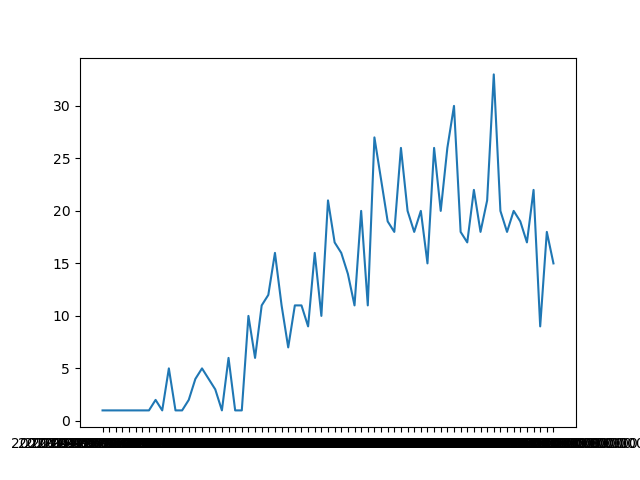
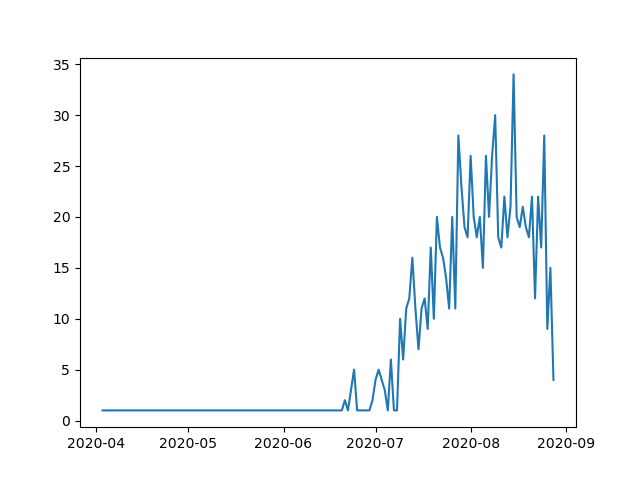
script model regresion

diff --git a/StructureInformation.py b/StructureInformation.py
@@ -2,7 +2,6 @@ import pandas as pd
 from sodapy import Socrata
 import numpy as np
 import matplotlib.pyplot as plt
-import seaborn as sns
 
 
 def get_information(url,limit):
@@ -11,12 +10,18 @@ def get_information(url,limit):
     data = pd.DataFrame.from_records(data)
     return data
 
+def castDate(data,value):
+    data[value] = data[value].str[:10]
+    data[value] = pd.to_datetime(data[value])
+    return data
+
+
 def filter_city_categorical_values(dataframe, filterCity):
     data_frame_Covid_19 = dataframe[dataframe.ciudad_de_ubicaci_n.isin(filterCity)]
     data_frame_Covid_19['edad'] = data_frame_Covid_19['edad'].astype(int)
 
     conditions = [
-        (data_frame_Covid_19['edad'] <= 20),
+       (data_frame_Covid_19['edad'] <= 20),
         (data_frame_Covid_19['edad'] > 20) & (data_frame_Covid_19['edad'] <= 40),
         (data_frame_Covid_19['edad'] > 40) & (data_frame_Covid_19['edad'] <= 60),
         (data_frame_Covid_19['edad'] > 60) & (data_frame_Covid_19['edad'] <= 80),
@@ -26,6 +31,13 @@ def filter_city_categorical_values(dataframe, filterCity):
     values = ['< 20 Años', '21-30 Años', '41-60 Años', '61-80 Años', '> 80 Años']
 
     data_frame_Covid_19['EdadCate'] = np.select(conditions, values)
+    data_frame_Covid_19 =castDate(data = data_frame_Covid_19,value = "fecha_de_notificaci_n")
+    data_frame_Covid_19 = castDate(data=data_frame_Covid_19, value="fecha_diagnostico")
+    data_frame_Covid_19 = castDate(data=data_frame_Covid_19, value="fecha_recuperado")
+    data_frame_Covid_19 = castDate(data=data_frame_Covid_19, value="fecha_reporte_web")
+    data_frame_Covid_19 = castDate(data=data_frame_Covid_19, value="fecha_de_muerte")
+
+
     return data_frame_Covid_19
 
 def structuredata(dataframe,variable):
@@ -51,9 +63,15 @@ Data_covid = filter_city_categorical_values(dataframe = Data_covid,
                                                             'Barranquilla',
                                                             'Cartagena de Indias'])
 
+
+
+
+
 Infectados_history = structuredata(dataframe = Data_covid, variable = "fecha_diagnostico")
 Recuperados_history = structuredata(dataframe = Data_covid, variable = "fecha_recuperado")
 Muertes_history = structuredata(dataframe = Data_covid, variable = "fecha_de_muerte")
+
+
 
 
 medellin = Muertes_history[Muertes_history["ciudad_de_ubicaci_n"]=="Medellín"]
@@ -63,31 +81,12 @@ plt.plot(medellin.fecha_de_muerte,medellin.id_de_caso)
 plt.show()
 plt.savefig('fig/plot1.png')
 
+
+
+
+
 from jinja2 import Template
 str = open('Template/index.html', 'r').read()
 template = Template(str)
 str = template.render(muertos= 2000)
 open('index.html', 'w').write(str);
-
-
-####################################################################### analisis de correlacion#######
-
-recuperadostime = Data_covid[Data_covid["fecha_diagnostico"].notnull()]
-recuperadostime = recuperadostime[recuperadostime["fecha_recuperado"].notnull()]
-recuperadostime['fecha_diagnostico'] = recuperadostime['fecha_diagnostico'].str[:10]
-recuperadostime['fecha_diagnostico'] =pd.to_datetime(recuperadostime['fecha_diagnostico'])
-recuperadostime['fecha_recuperado'] = recuperadostime['fecha_recuperado'].str[:10]
-recuperadostime['fecha_recuperado'] =pd.to_datetime(recuperadostime['fecha_recuperado'])
-
-a =((recuperadostime['fecha_recuperado'] - recuperadostime['fecha_diagnostico'])/ np.timedelta64(1, 'D')).astype(int)
-
-
-sns.distplot(a, hist=True, kde=True,
-             bins=int(180/5), color = 'darkblue',
-             hist_kws={'edgecolor':'black'},
-             kde_kws={'linewidth': 4})
-
-###################### modelo Regresion rezagos###############
-
-infectados = Infectados_history[[""]]
-Infectados_history.columns

diff --git a/ModelRegresion.py b/ModelRegresion.py
@@ -1,0 +1,62 @@
+import matplotlib.pyplot as plt
+import seaborn as sns
+from sklearn import datasets, linear_model, metrics
+from sklearn.model_selection import train_test_split
+import pandas as pd
+
+####################################################################### analisis de correlacion#######
+
+a =((Data_covid['fecha_recuperado'] - Data_covid['fecha_diagnostico'])/ np.timedelta64(1, 'D')).dropna().astype(int)
+
+
+sns.distplot(a, hist=True, kde=True,
+             bins=int(180/5), color = 'darkblue',
+             hist_kws={'edgecolor':'black'},
+             kde_kws={'linewidth': 4})
+
+###################### modelo Regresion rezagos###############
+
+
+def ModelData(DataX,DataY,ciudad,numberLag):
+
+    DataX_city = DataX[DataX["ciudad_de_ubicaci_n"] == ciudad]
+    DataY_city = DataY[DataY["ciudad_de_ubicaci_n"] == ciudad]
+
+    infectados = DataX_city[["fecha_diagnostico", "id_de_caso"]]
+    infectados.columns = ['Fecha', 'Numero_de_Infectados']
+    recuperado = DataY_city[["fecha_recuperado", "id_de_caso"]]
+    recuperado.columns = ['Fecha', 'Numero_de_Recuperados']
+    dataModel = pd.merge(infectados, recuperado, on='Fecha', how="outer")
+
+    dataModel["Numero_de_Infectados"] = dataModel["Numero_de_Infectados"].fillna(0)
+    dataModel["Numero_de_Recuperados"] = dataModel["Numero_de_Recuperados"].fillna(0)
+
+    dataModel = dataModel.sort_values(by=['Fecha'], ascending=True)
+    X_Value = dataModel[["Numero_de_Infectados"]]
+    Rezagos = pd.concat([dataModel, X_Value.shift()], axis=1)
+    for x in range(2, numberLag):
+        Rezagos = pd.concat([Rezagos, X_Value.shift(x)], axis=1)
+
+    Rezagos = Rezagos.sort_values(by=['Fecha'], ascending=False)
+    Rezagos = Rezagos.dropna()
+
+    namescolumns = dataModel.columns.tolist() + ["Rezago" + str(x) for x in range(1, Rezagos.shape[1] - 2)]
+    Rezagos.columns = namescolumns
+    return Rezagos
+
+Data_Modelo = ModelData(DataX = Infectados_history, DataY = Recuperados_history, ciudad = "Medellín",numberLag = 25)
+
+
+Variables_Independientes = ['Rezago24','Rezago23','Rezago22','Rezago21']
+Variable_Dependiente = ['Numero_de_Recuperados']
+
+
+X = Data_Modelo[Variables_Independientes].as_matrix()
+Y = infectadosrezagados[['Numero_de_Recuperados']]
+
+X_train, X_test, y_train, y_test = train_test_split(X, Y, test_size=0.2,
+                                                    random_state=1)
+
+
+plt.scatter(X_train, y_train,  color='black')
+plt.plot(diabetes_X_test, diabetes_y_pred, color='blue', linewidth=3)
